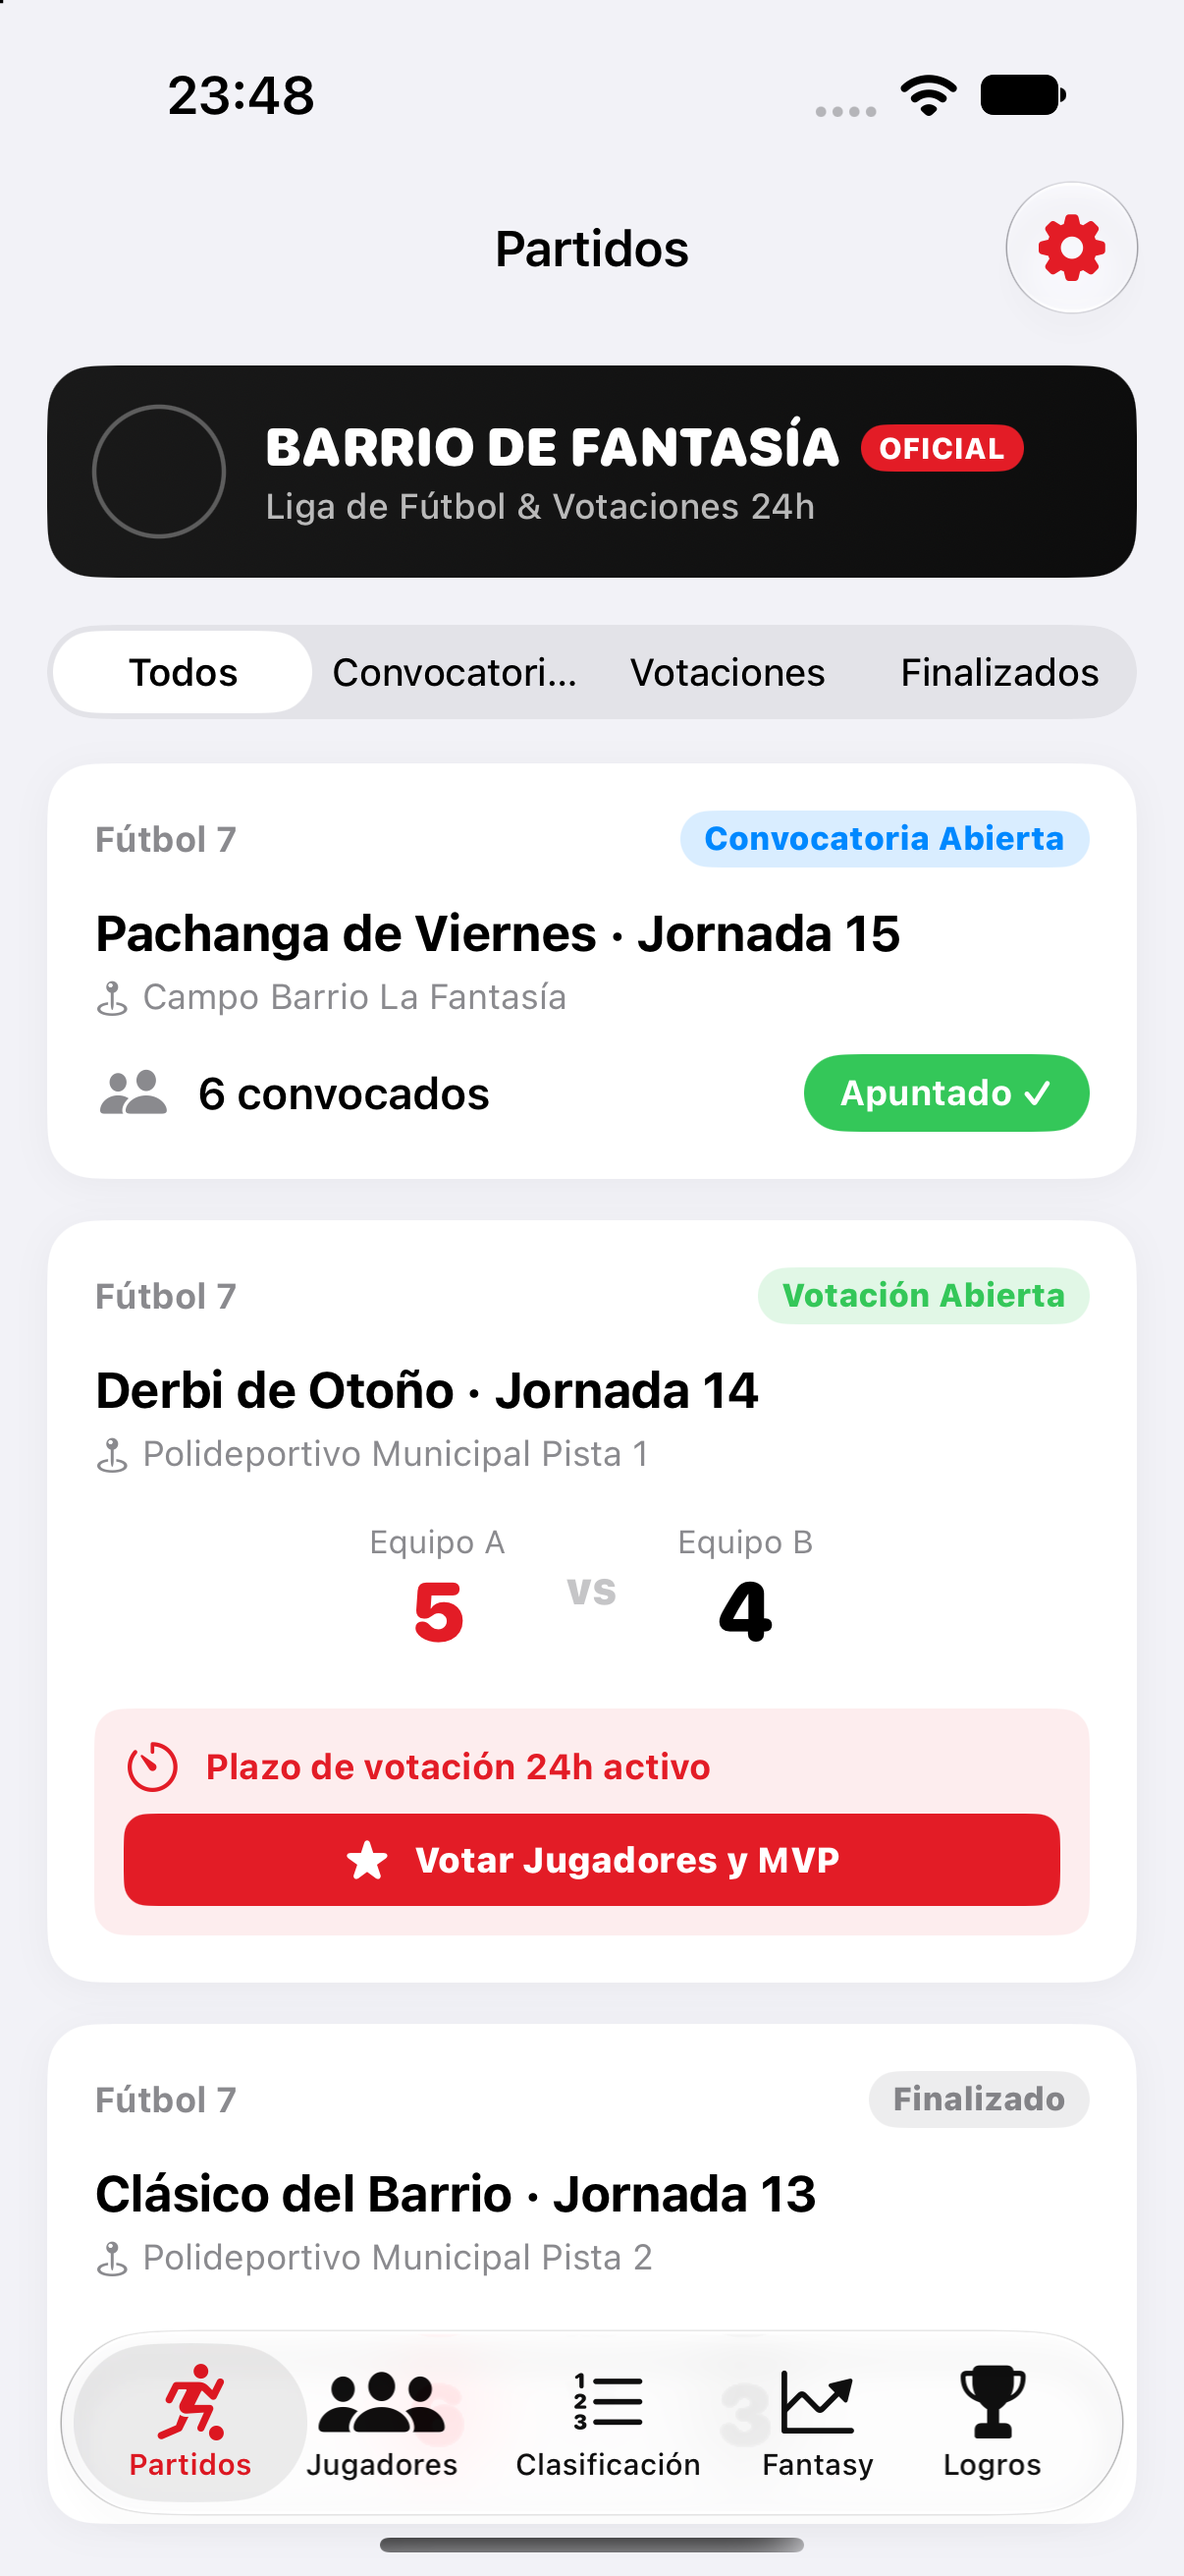
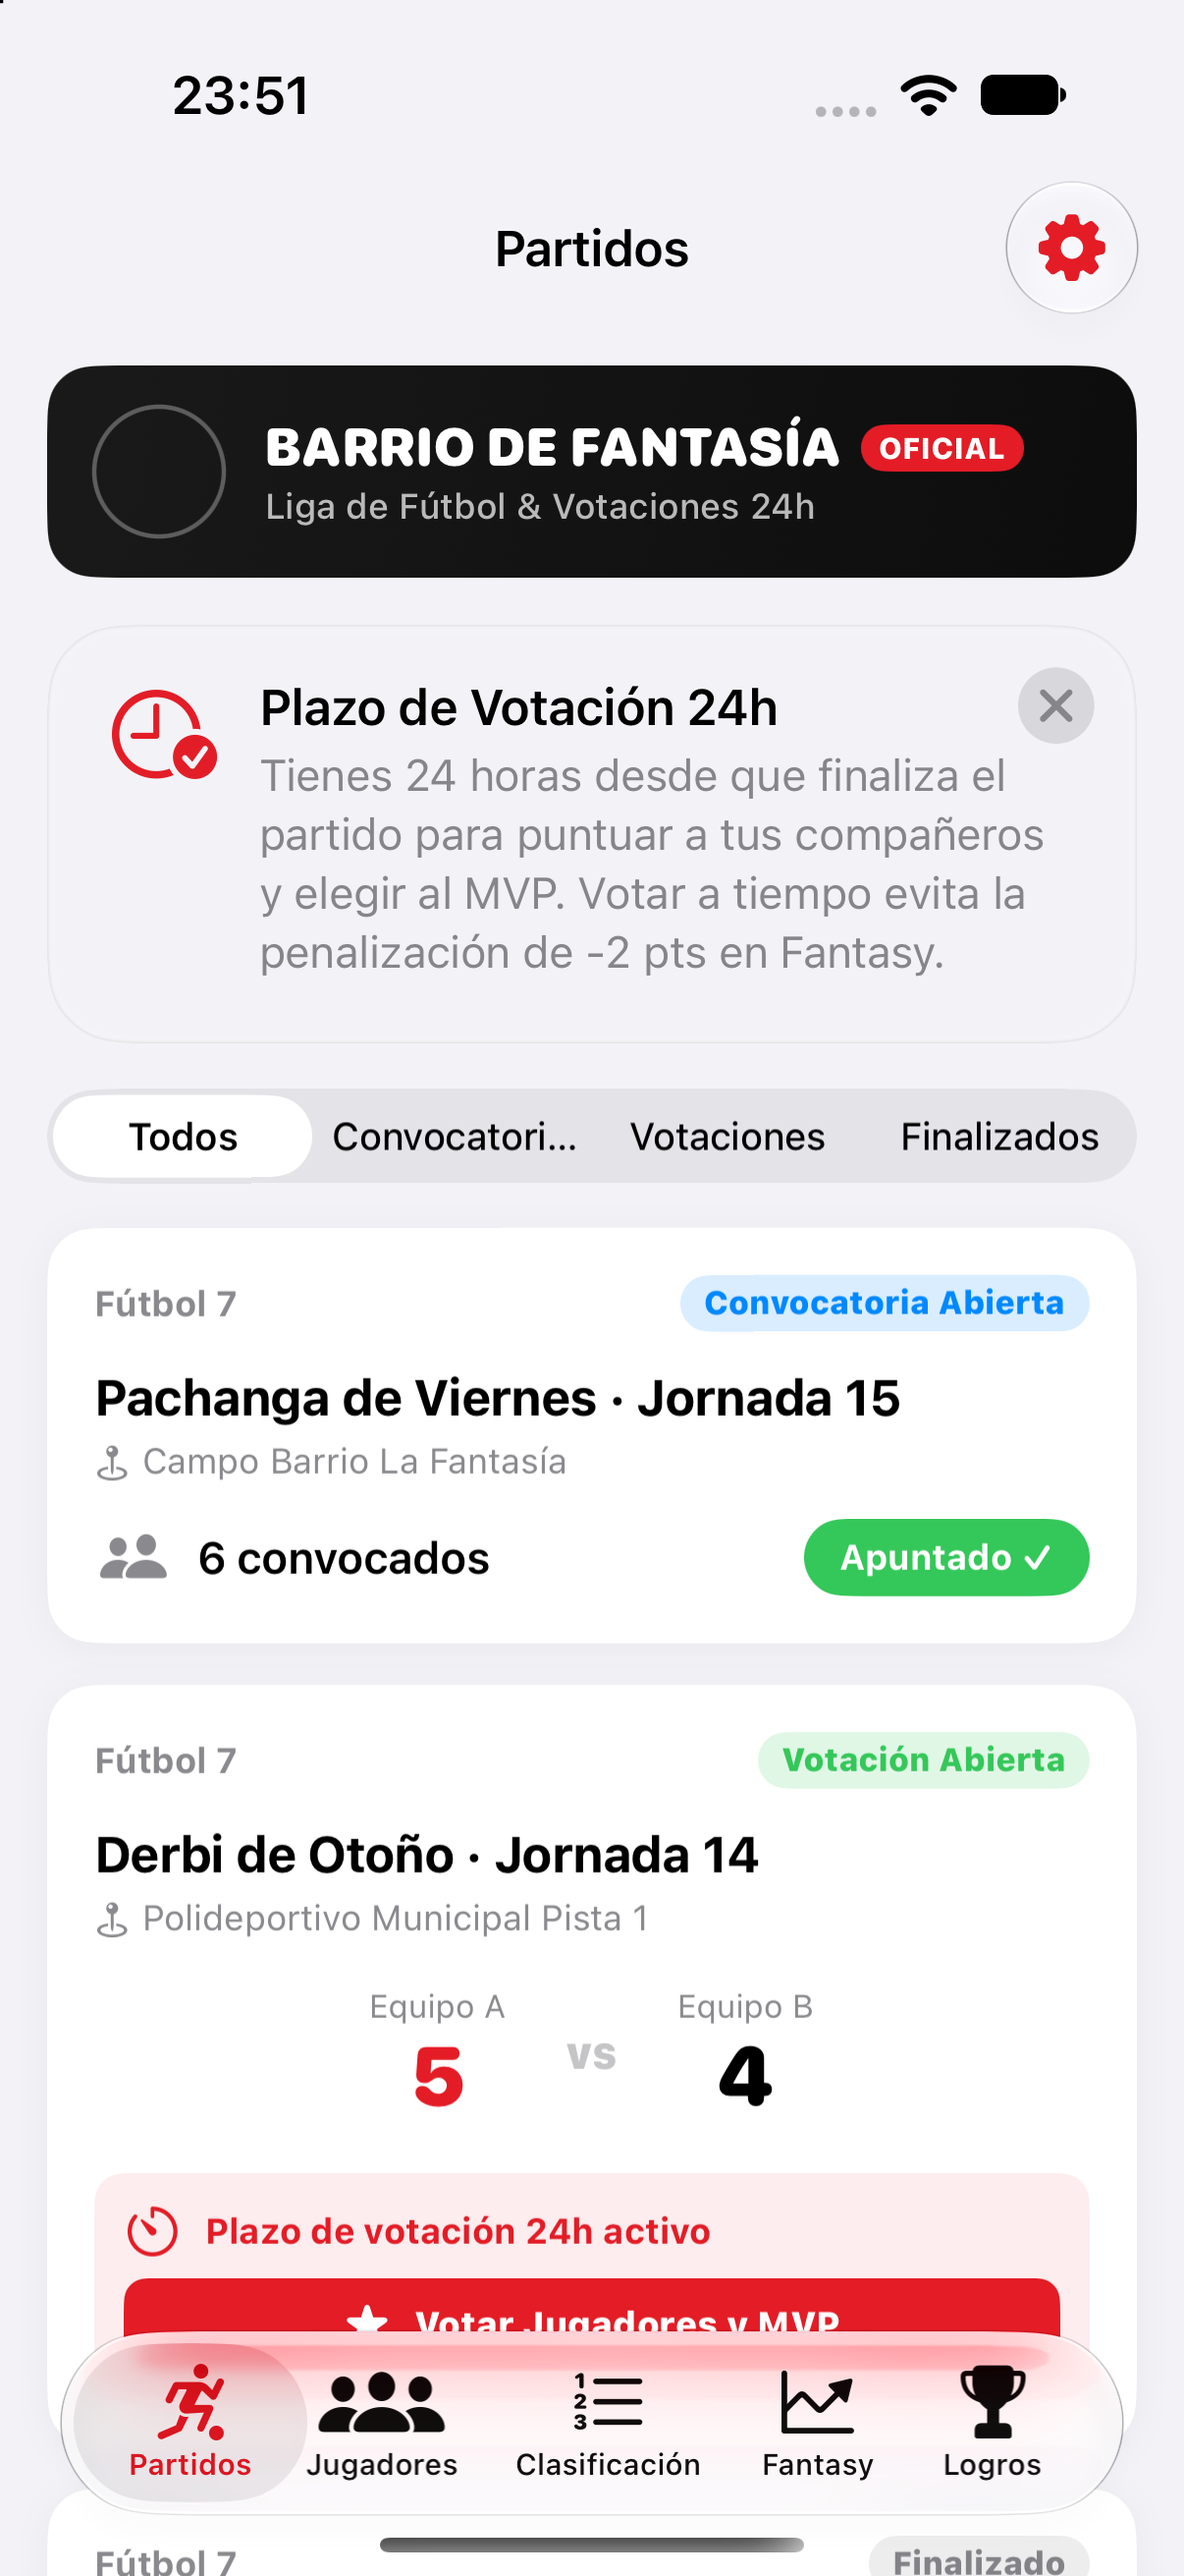
refactor: apply swiftui-pro, swiftdata-pro, and apple framework suite best practices

diff --git a/BarrioFantasia/Views/MatchesView.swift b/BarrioFantasia/Views/MatchesView.swift
@@ -1,5 +1,6 @@
 import SwiftUI
 import SwiftData
+import TipKit
 
 public struct MatchesView: View {
     @Query private var matches: [Match]
@@ -7,6 +8,7 @@ public struct MatchesView: View {
     @State private var viewModel = MatchesViewModel()
     @State private var showingSettings: Bool = false
     @State private var votingMatch: Match? = nil
+    private let votingTip = VotingDeadlineTip()
 
     public init() {}
 
@@ -16,6 +18,10 @@ public struct MatchesView: View {
                 VStack(spacing: 16) {
                     // Header Brand Card
                     headerBrandSection
+
+                    // Contextual TipKit Tip
+                    TipView(votingTip)
+                        .padding(.horizontal)
 
                     // Segmented Filter
                     Picker("Filtro", selection: $viewModel.selectedFilter) {
@@ -33,7 +39,7 @@ public struct MatchesView: View {
                     } else {
                         LazyVStack(spacing: 14) {
                             ForEach(filtered) { match in
-                                NavigationLink(destination: MatchDetailView(match: match)) {
+                                NavigationLink(value: match) {
                                     MatchCardView(match: match, onVoteTap: {
                                         votingMatch = match
                                     }, onSignupTap: {
@@ -44,6 +50,9 @@ public struct MatchesView: View {
                             }
                         }
                         .padding(.horizontal)
+                        .navigationDestination(for: Match.self) { match in
+                            MatchDetailView(match: match)
+                        }
                     }
                 }
                 .padding(.bottom, 24)
@@ -60,6 +69,7 @@ public struct MatchesView: View {
                         Image(systemName: "gearshape.fill")
                             .foregroundStyle(Color(red: 0.89, green: 0.11, blue: 0.15))
                     }
+                    .accessibilityLabel("Ajustes del servidor y notificaciones")
                 }
             }
             .sheet(isPresented: $showingSettings) {

diff --git a/BarrioFantasia/Views/PlayersView.swift b/BarrioFantasia/Views/PlayersView.swift
@@ -39,13 +39,16 @@ public struct PlayersView: View {
                     let list = viewModel.filteredPlayers(from: players)
                     LazyVStack(spacing: 12) {
                         ForEach(list) { player in
-                            NavigationLink(destination: PlayerDetailView(player: player)) {
+                            NavigationLink(value: player) {
                                 PlayerRowCard(player: player)
                             }
                             .buttonStyle(.plain)
                         }
                     }
                     .padding(.horizontal)
+                    .navigationDestination(for: Player.self) { player in
+                        PlayerDetailView(player: player)
+                    }
                 }
                 .padding(.vertical, 8)
             }

diff --git a/BarrioFantasia/Views/MatchVotingView.swift b/BarrioFantasia/Views/MatchVotingView.swift
@@ -106,6 +106,7 @@ public struct MatchVotingView: View {
                     .clipShape(Capsule())
                 }
                 .buttonStyle(.plain)
+                .accessibilityLabel(draft.wrappedValue.isMvp ? "Jugador marcado como MVP del partido" : "Marcar a \(draft.wrappedValue.player.displayName) como MVP")
             }
 
             // Slider with score value
@@ -128,6 +129,7 @@ public struct MatchVotingView: View {
                     Text("Puntuación")
                 }
                 .tint(scoreColor(draft.wrappedValue.score))
+                .accessibilityValue("\(String(format: "%.1f", draft.wrappedValue.score)) puntos")
             }
 
             // Optional remark

diff --git a/BarrioFantasia/Views/PlayerDetailView.swift b/BarrioFantasia/Views/PlayerDetailView.swift
@@ -115,7 +115,7 @@ public struct PlayerDetailView: View {
                     Text("Valor de Mercado")
                         .font(.caption)
                         .foregroundStyle(.secondary)
-                    Text("\(player.marketValue / 1_000_000).000.000 €")
+                    Text(player.marketValue, format: .currency(code: "EUR").precision(.fractionLength(0)))
                         .font(.title3)
                         .fontWeight(.black)
                         .foregroundStyle(Color(red: 0.89, green: 0.11, blue: 0.15))

diff --git a/BarrioFantasia/Services/VotingDeadlineTip.swift b/BarrioFantasia/Services/VotingDeadlineTip.swift
@@ -1,0 +1,17 @@
+import Foundation
+import SwiftUI
+import TipKit
+
+public struct VotingDeadlineTip: Tip {
+    public var title: Text {
+        Text("Plazo de Votación 24h")
+    }
+
+    public var message: Text? {
+        Text("Tienes 24 horas desde que finaliza el partido para puntuar a tus compañeros y elegir al MVP. Votar a tiempo evita la penalización de -2 pts en Fantasy.")
+    }
+
+    public var image: Image? {
+        Image(systemName: "clock.badge.checkmark")
+    }
+}

diff --git a/BarrioFantasia/App/BarrioFantasiaApp.swift b/BarrioFantasia/App/BarrioFantasiaApp.swift
@@ -1,11 +1,17 @@
 import SwiftUI
 import SwiftData
+import TipKit
 
 @main
 struct BarrioFantasiaApp: App {
     let container: ModelContainer
 
     init() {
+        try? Tips.configure([
+            .displayFrequency(.immediate),
+            .datastoreLocation(.applicationDefault)
+        ])
+
         do {
             let schema = Schema([
                 Player.self,
